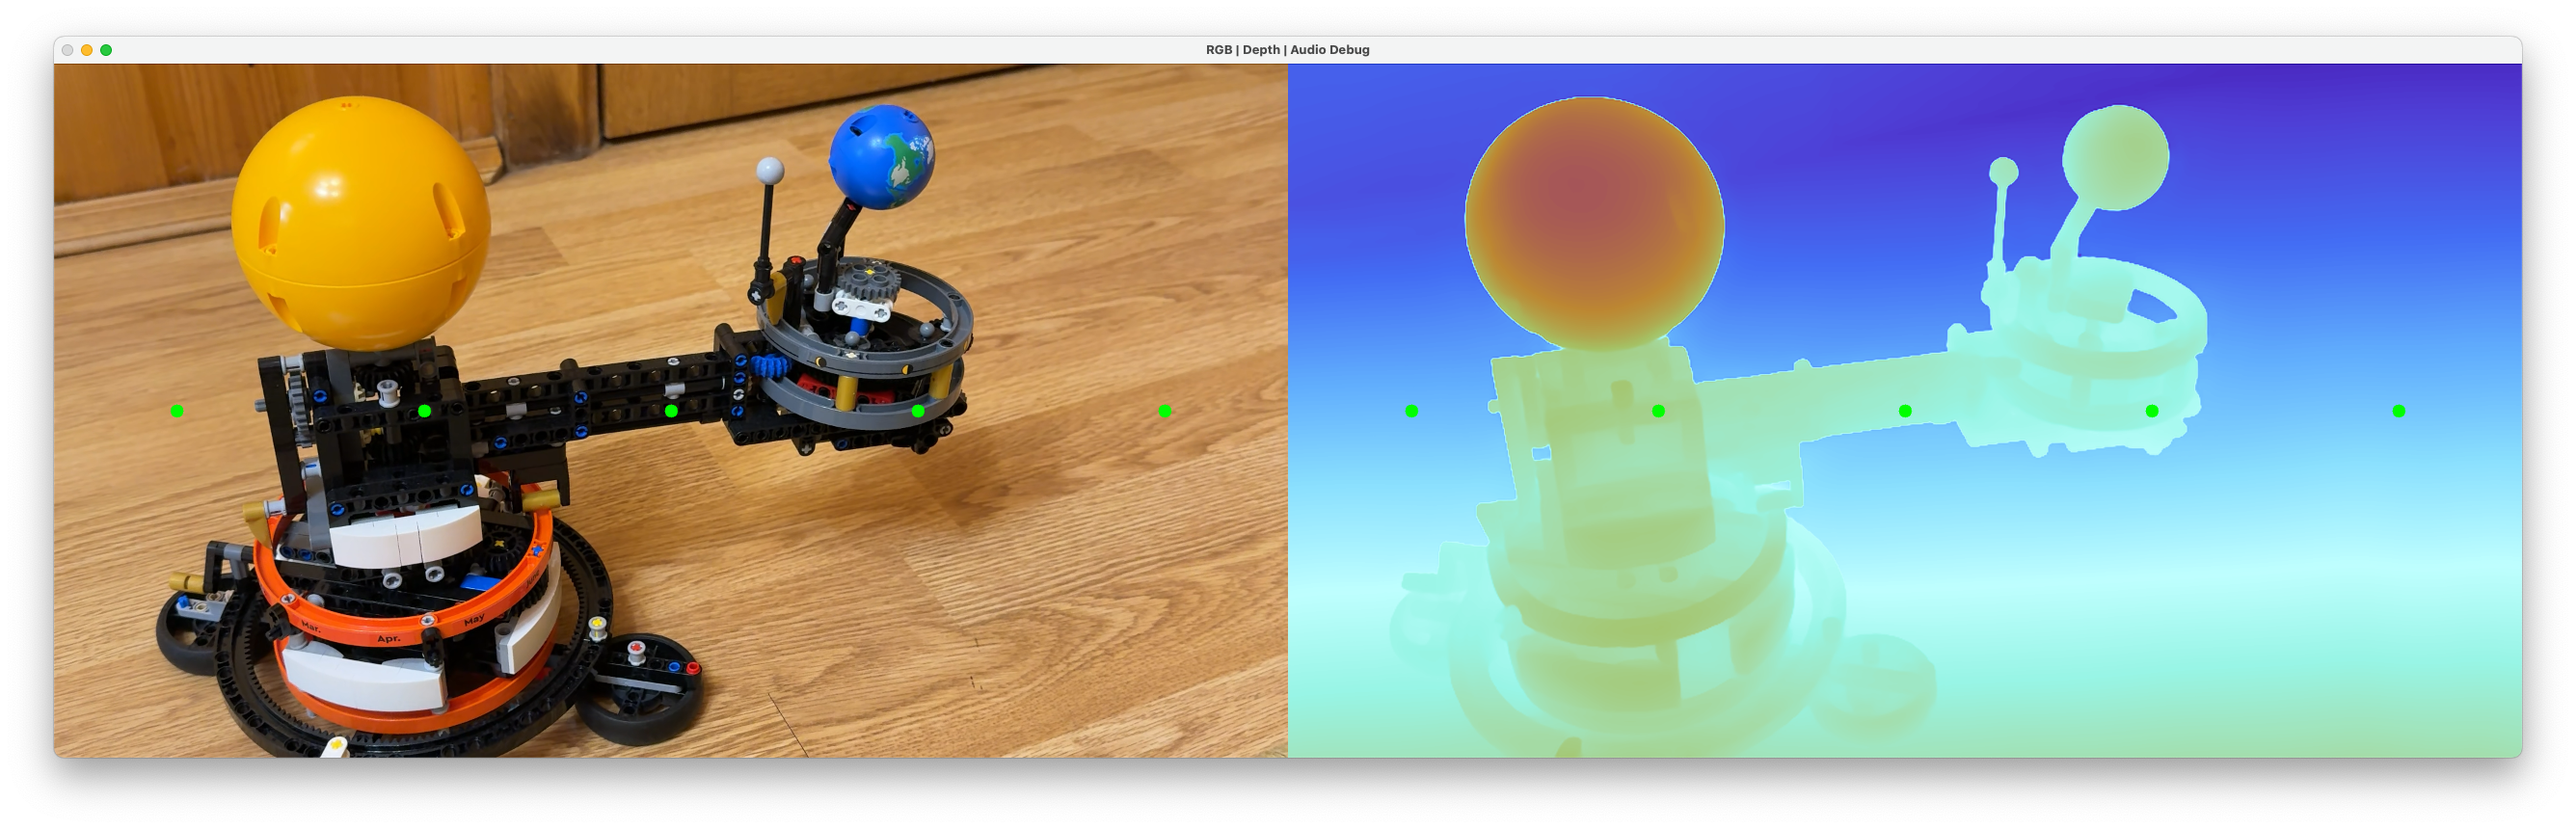
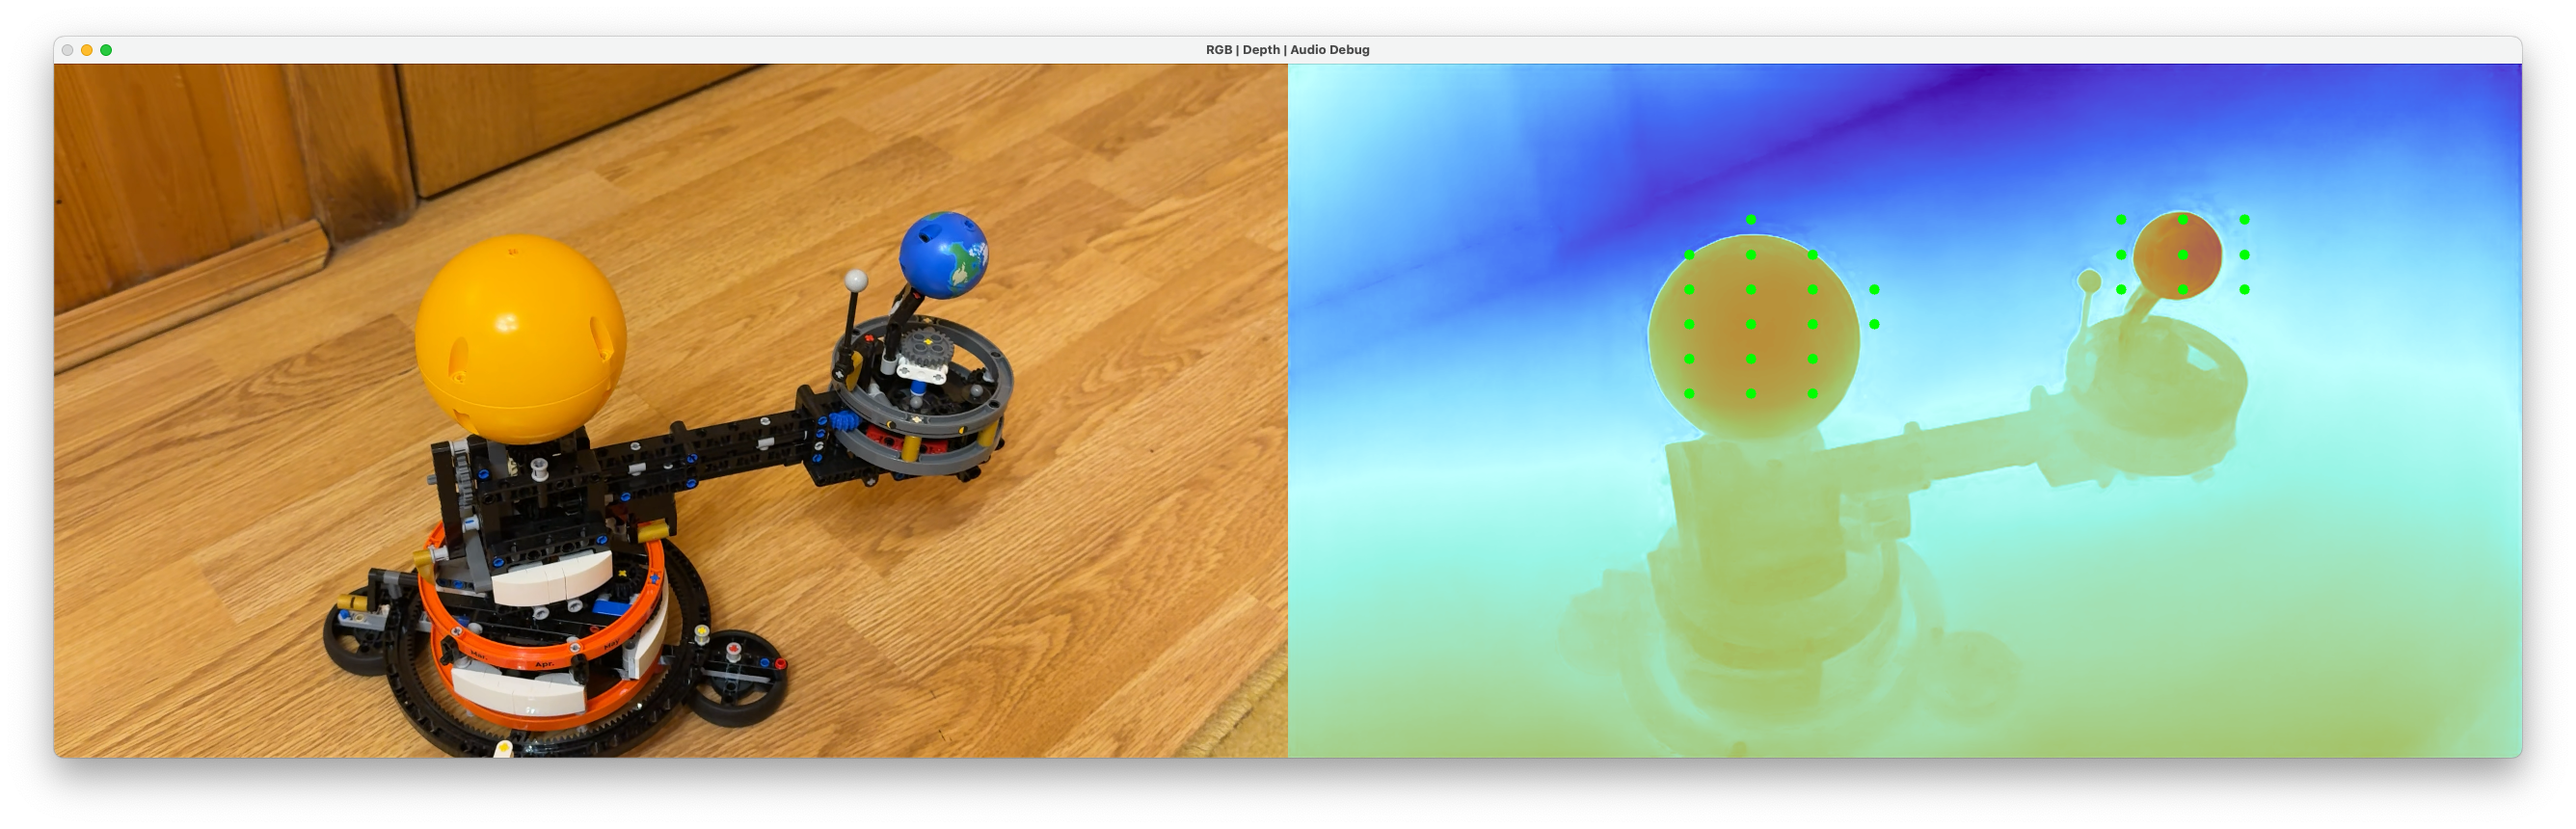
Optimize audio debug visualization

diff --git a/main.py b/main.py
@@ -82,15 +82,19 @@ def run(camera_index: int, device: str | None, output_backend: str) -> None:  # 
             depth_vis = colorize(depth, inverse=inverse_depth)
             combined = np.hstack([frame, depth_vis])
 
+            # Width of a single frame (left = RGB, right = Depth)
+            frame_width = frame.shape[1]
+
             if debug_stereo:
                 for azimuth, amp, _ in sources:
-                    x = int((azimuth + 1) / 2 * combined.shape[1])
+                    # Map azimuth −1..1 → depth image X coordinate only (right half)
+                    x = frame_width + int((azimuth + 1) / 2 * frame_width)
                     y = combined.shape[0] // 2
                     cv2.circle(combined, (x, y), radius=10, color=(0, 255, 0), thickness=-1)
             else:
                 for x3d, y3d, z3d, gain, _ in sources:
-                    # Map X/Y from −1..1 → screen space
-                    x = int((x3d + 1) / 2 * combined.shape[1])
+                    # Map X/Y from −1..1 → depth image screen space (right half)
+                    x = frame_width + int((x3d + 1) / 2 * frame_width)
                     y = int((1 - y3d) / 2 * combined.shape[0])
                     cv2.circle(combined, (x, y), radius=8, color=(0, 255, 0), thickness=-1)
 

diff --git a/README.md b/README.md
@@ -3,6 +3,7 @@
 Hear your surroundings with computer vision. This _experimental_ Python application captures live video from the built-in camera on macOS (Apple Silicon), estimates depth with Depth Anything V2 and converts the depth map into spatialised stereo audio in real-time.
 
 ![Screenshot](./assets/screenshot.png)
+Left: Camera feed, Right: Depth map, Green dots: Current audio sources (audible 3D soundscape)
 
 ## Features
 
